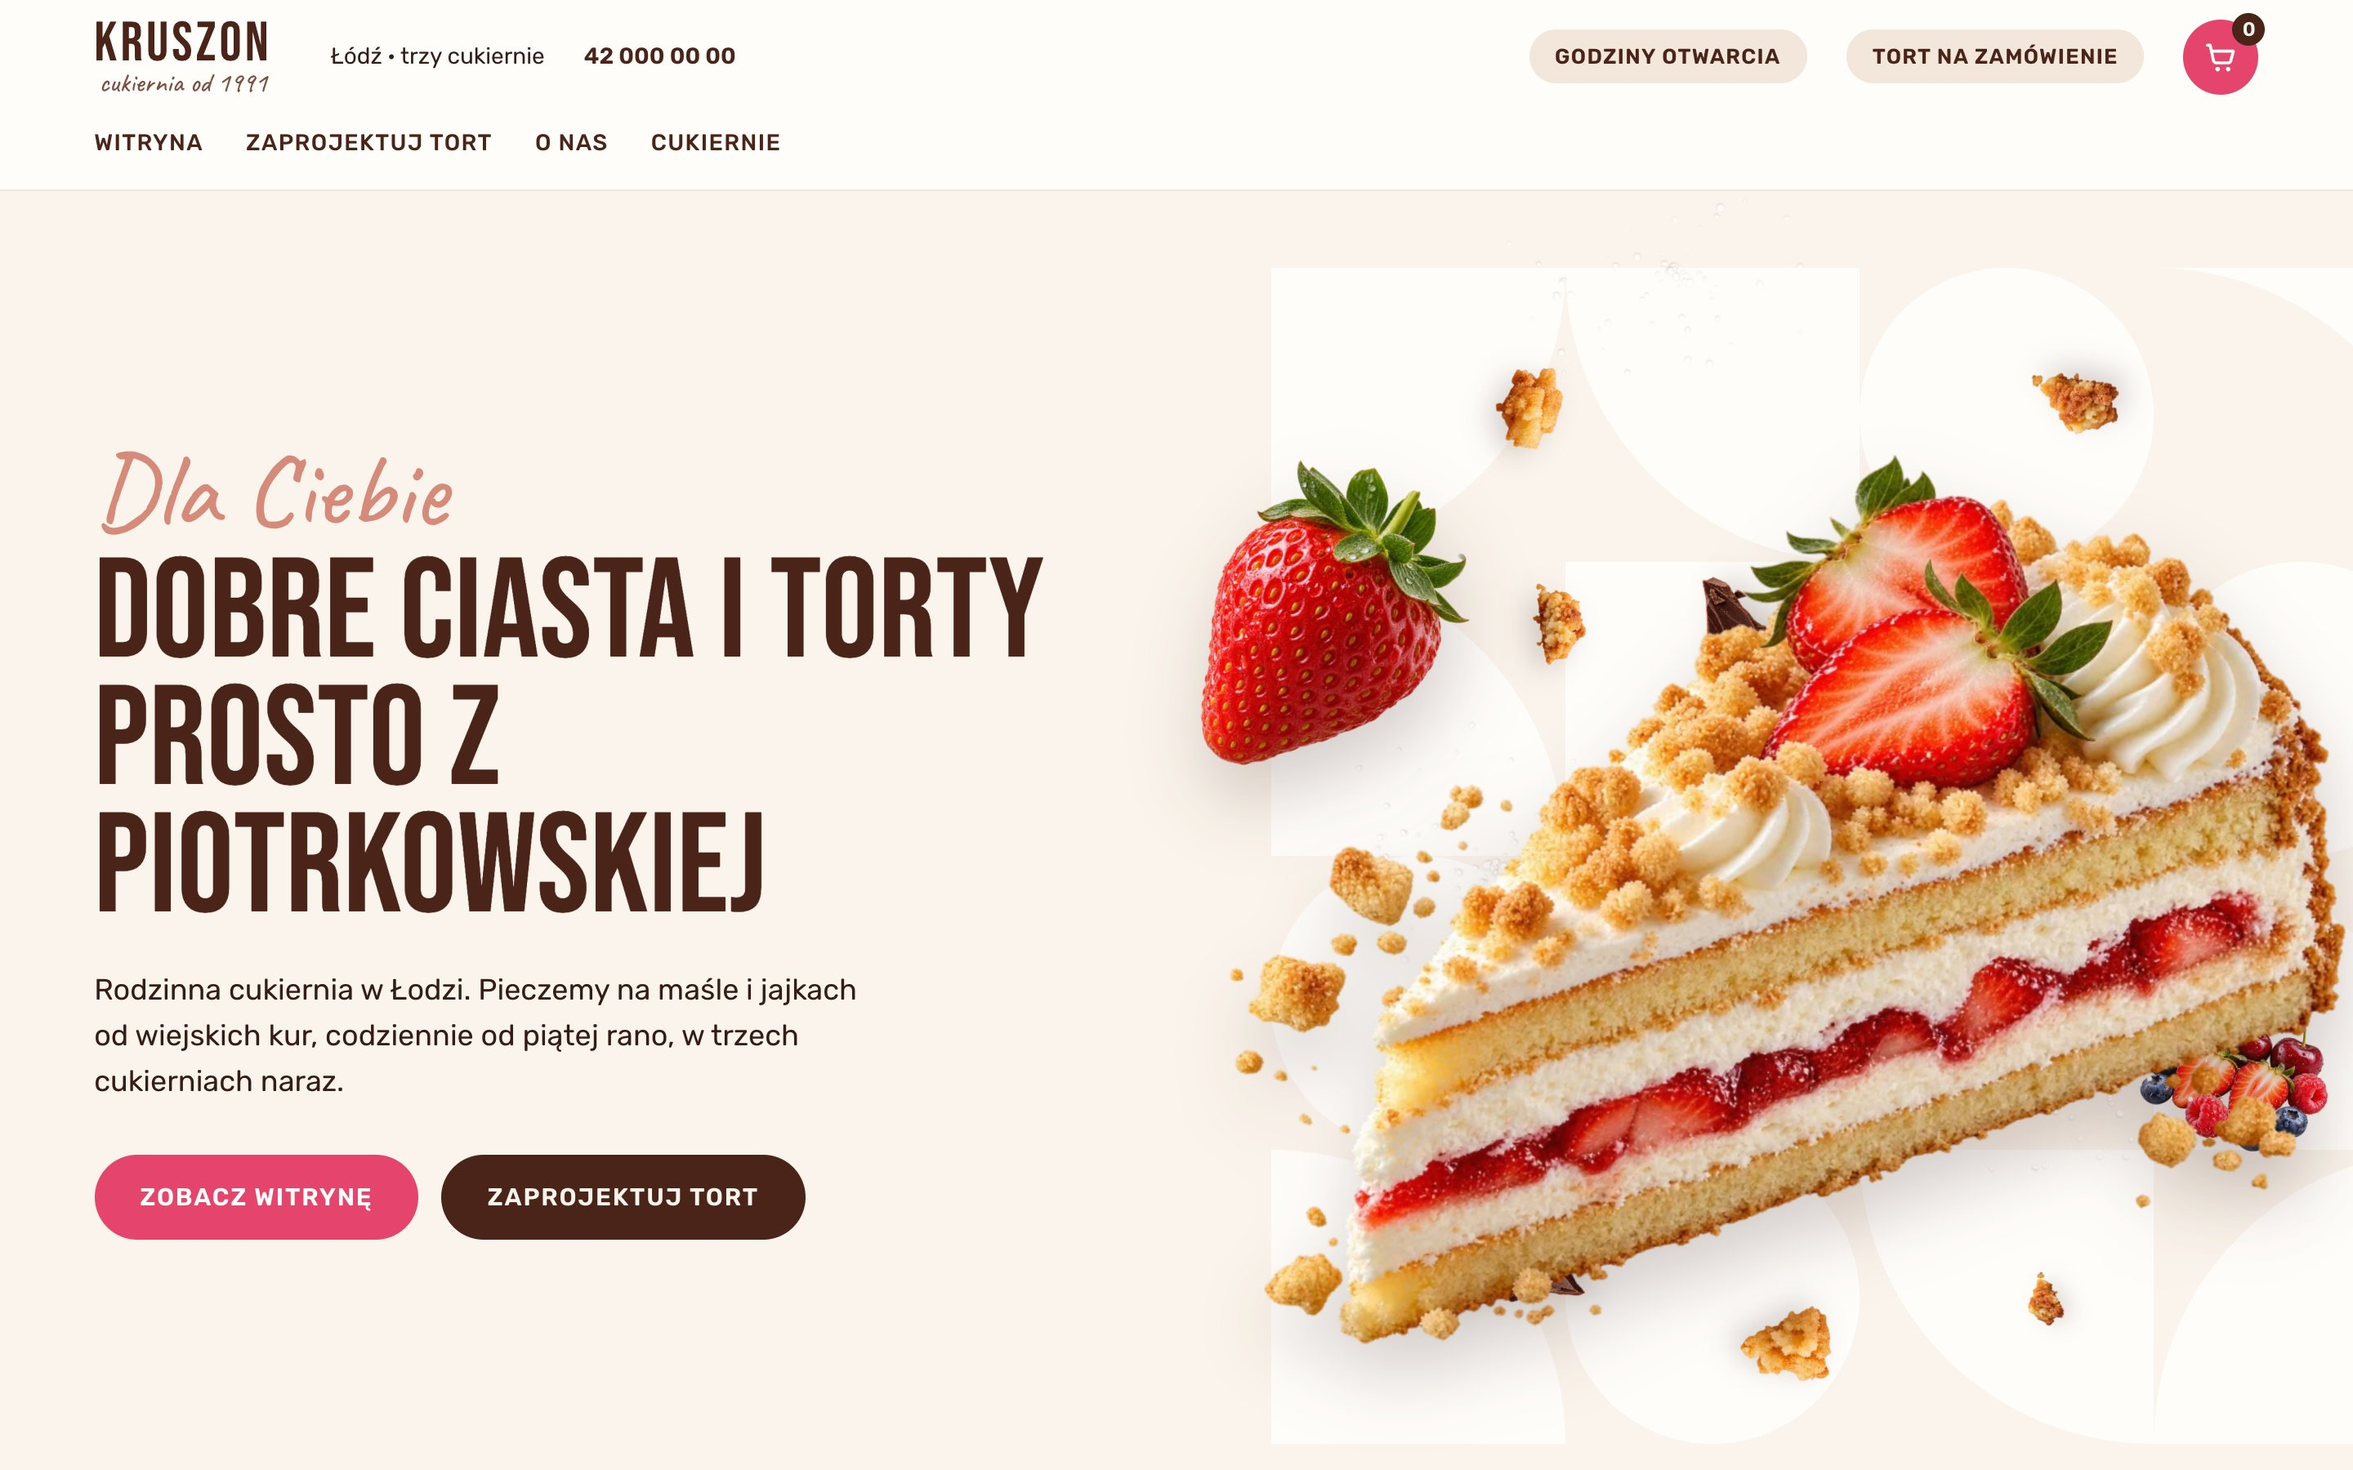
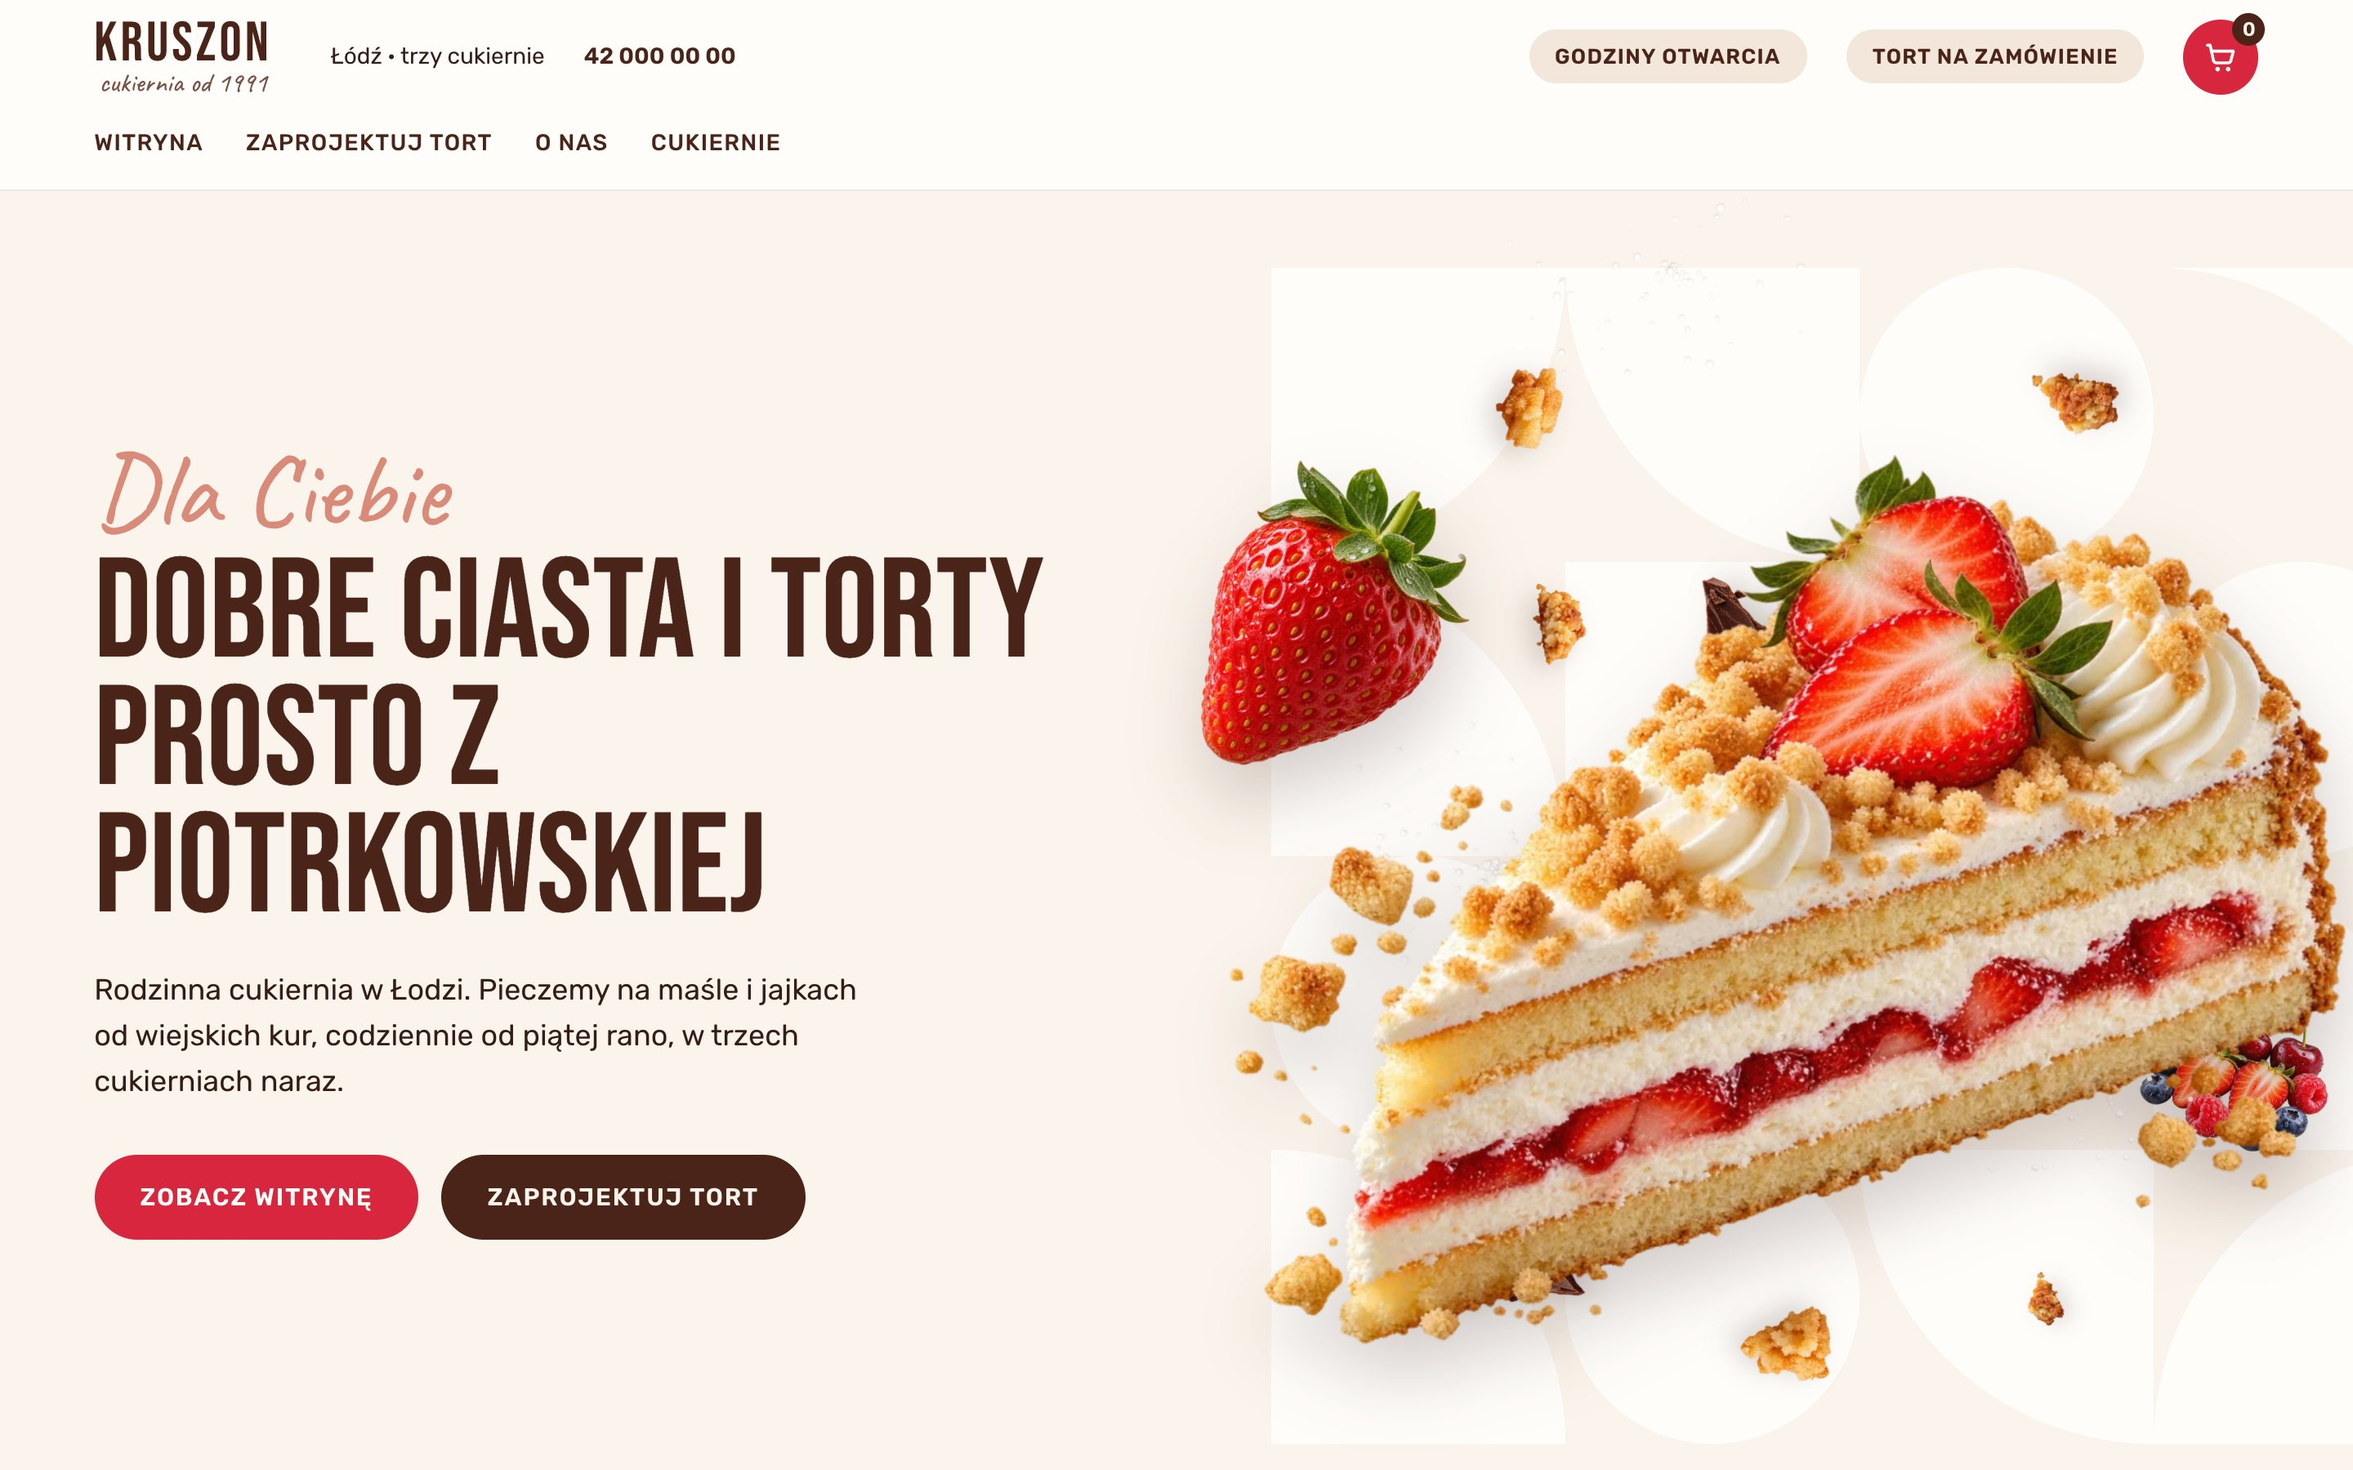
Kruszon: akcent w kolorze dojrzałej truskawki (#d7263d) zamiast malinowego różu

Changed region(s): [[0.0312, 0.7778, 0.1875, 0.8711], [0.9062, 0.0, 0.9688, 0.0622]]

diff --git a/design/concepts/kruszon-tort.html b/design/concepts/kruszon-tort.html
@@ -10,7 +10,7 @@
 <link rel="preconnect" href="https://fonts.gstatic.com" crossorigin>
 <link href="https://fonts.googleapis.com/css2?family=Bebas+Neue&family=Caveat:wght@500;600&family=Rubik:wght@400;500;600&display=swap" rel="stylesheet">
 <script>(function(){var m=location.search.match(/[?&]pal=(\w+)/);if(m)document.documentElement.dataset.pal=m[1];document.documentElement.classList.add("js")})()</script>
-<link rel="stylesheet" href="assets/kruszon/site.css?v=5">
+<link rel="stylesheet" href="assets/kruszon/site.css?v=6">
 <style>
   .phead h1 { max-width:12ch; }
   .studio { display:grid; grid-template-columns:minmax(0, 1.25fr) minmax(0, .75fr); gap:clamp(28px, 4vw, 64px); align-items:start; padding-bottom:clamp(90px, 10vw, 140px); }
@@ -272,7 +272,7 @@
   </div>
 </footer>
 <script src="assets/concept.js"></script>
-<script src="assets/kruszon/site.js?v=5"></script>
+<script src="assets/kruszon/site.js?v=6"></script>
 <script>
 (function () {
   var NS = "http://www.w3.org/2000/svg", f = document.querySelector("[data-builder]"), cake = document.querySelector("[data-cake]"), sec = document.querySelector("[data-section]");

diff --git a/public/demo/concepts/kruszon-tort.html b/public/demo/concepts/kruszon-tort.html
@@ -10,7 +10,7 @@
 <link rel="preconnect" href="https://fonts.gstatic.com" crossorigin>
 <link href="https://fonts.googleapis.com/css2?family=Bebas+Neue&family=Caveat:wght@500;600&family=Rubik:wght@400;500;600&display=swap" rel="stylesheet">
 <script>(function(){var m=location.search.match(/[?&]pal=(\w+)/);if(m)document.documentElement.dataset.pal=m[1];document.documentElement.classList.add("js")})()</script>
-<link rel="stylesheet" href="assets/kruszon/site.css?v=5">
+<link rel="stylesheet" href="assets/kruszon/site.css?v=6">
 <style>
   .phead h1 { max-width:12ch; }
   .studio { display:grid; grid-template-columns:minmax(0, 1.25fr) minmax(0, .75fr); gap:clamp(28px, 4vw, 64px); align-items:start; padding-bottom:clamp(90px, 10vw, 140px); }
@@ -272,7 +272,7 @@
   </div>
 </footer>
 <script src="assets/concept.js"></script>
-<script src="assets/kruszon/site.js?v=5"></script>
+<script src="assets/kruszon/site.js?v=6"></script>
 <script>
 (function () {
   var NS = "http://www.w3.org/2000/svg", f = document.querySelector("[data-builder]"), cake = document.querySelector("[data-cake]"), sec = document.querySelector("[data-section]");

diff --git a/design/concepts/kruszon-cukiernie.html b/design/concepts/kruszon-cukiernie.html
@@ -10,7 +10,7 @@
 <link rel="preconnect" href="https://fonts.gstatic.com" crossorigin>
 <link href="https://fonts.googleapis.com/css2?family=Bebas+Neue&family=Caveat:wght@500;600&family=Rubik:wght@400;500;600&display=swap" rel="stylesheet">
 <script>(function(){var m=location.search.match(/[?&]pal=(\w+)/);if(m)document.documentElement.dataset.pal=m[1];document.documentElement.classList.add("js")})()</script>
-<link rel="stylesheet" href="assets/kruszon/site.css?v=5">
+<link rel="stylesheet" href="assets/kruszon/site.css?v=6">
 <style>
   .where { display:grid; grid-template-columns:1.05fr .95fr; gap:clamp(28px, 4vw, 56px); align-items:start; padding-bottom:clamp(90px, 10vw, 140px); }
   .map { position:sticky; top:122px; background:var(--card); border-radius:28px; padding:16px; }
@@ -162,7 +162,7 @@
   </div>
 </footer>
 <script src="assets/concept.js"></script>
-<script src="assets/kruszon/site.js?v=5"></script>
+<script src="assets/kruszon/site.js?v=6"></script>
 <script>
 (function () {
   var shops = document.querySelectorAll(".shop[data-i]"), pins = document.querySelectorAll("[data-pin]");

diff --git a/public/demo/concepts/kruszon-cukiernie.html b/public/demo/concepts/kruszon-cukiernie.html
@@ -10,7 +10,7 @@
 <link rel="preconnect" href="https://fonts.gstatic.com" crossorigin>
 <link href="https://fonts.googleapis.com/css2?family=Bebas+Neue&family=Caveat:wght@500;600&family=Rubik:wght@400;500;600&display=swap" rel="stylesheet">
 <script>(function(){var m=location.search.match(/[?&]pal=(\w+)/);if(m)document.documentElement.dataset.pal=m[1];document.documentElement.classList.add("js")})()</script>
-<link rel="stylesheet" href="assets/kruszon/site.css?v=5">
+<link rel="stylesheet" href="assets/kruszon/site.css?v=6">
 <style>
   .where { display:grid; grid-template-columns:1.05fr .95fr; gap:clamp(28px, 4vw, 56px); align-items:start; padding-bottom:clamp(90px, 10vw, 140px); }
   .map { position:sticky; top:122px; background:var(--card); border-radius:28px; padding:16px; }
@@ -162,7 +162,7 @@
   </div>
 </footer>
 <script src="assets/concept.js"></script>
-<script src="assets/kruszon/site.js?v=5"></script>
+<script src="assets/kruszon/site.js?v=6"></script>
 <script>
 (function () {
   var shops = document.querySelectorAll(".shop[data-i]"), pins = document.querySelectorAll("[data-pin]");

diff --git a/design/concepts/assets/kruszon/site.css b/design/concepts/assets/kruszon/site.css
@@ -3,10 +3,10 @@
   --display:"Bebas Neue", "Oswald", Impact, sans-serif; --script:"Caveat", "Segoe Script", cursive; --text:"Rubik", system-ui, sans-serif;
   --ease-out:cubic-bezier(.22,1,.36,1); --m:clamp(16px, 4vw, 64px); --r:22px;
 }
-/* Malina: kakao i malinowy róż na waniliowym tle (domyślna) */
+/* Malina (domyślna): kakao i czerwień dojrzałej truskawki na waniliowym tle */
 :root, html[data-pal="malina"] {
-  --bg:#fbf4ec; --bg-2:#f3e6da; --card:#fffdfa; --accent:#e5446d; --accent-2:#c92f58; --accent-ink:#fffdfa;
-  --ink:#341c17; --head:#4a2419; --soft:#7b5146; --script-c:#d58a7a; --big:#e5446d; --pattern:#fffdfa; --crumb-a:#c4895d; --crumb-b:#e0b48a;
+  --bg:#fbf4ec; --bg-2:#f3e6da; --card:#fffdfa; --accent:#d7263d; --accent-2:#b81c31; --accent-ink:#fffdfa;
+  --ink:#341c17; --head:#4a2419; --soft:#7b5146; --script-c:#d98a78; --big:#d7263d; --pattern:#fffdfa; --crumb-a:#c4895d; --crumb-b:#e0b48a;
 }
 /* Pistacja: zieleń pistacji i gorzka czekolada */
 html[data-pal="pistacja"] {

diff --git a/public/demo/concepts/assets/kruszon/site.css b/public/demo/concepts/assets/kruszon/site.css
@@ -3,10 +3,10 @@
   --display:"Bebas Neue", "Oswald", Impact, sans-serif; --script:"Caveat", "Segoe Script", cursive; --text:"Rubik", system-ui, sans-serif;
   --ease-out:cubic-bezier(.22,1,.36,1); --m:clamp(16px, 4vw, 64px); --r:22px;
 }
-/* Malina: kakao i malinowy róż na waniliowym tle (domyślna) */
+/* Malina (domyślna): kakao i czerwień dojrzałej truskawki na waniliowym tle */
 :root, html[data-pal="malina"] {
-  --bg:#fbf4ec; --bg-2:#f3e6da; --card:#fffdfa; --accent:#e5446d; --accent-2:#c92f58; --accent-ink:#fffdfa;
-  --ink:#341c17; --head:#4a2419; --soft:#7b5146; --script-c:#d58a7a; --big:#e5446d; --pattern:#fffdfa; --crumb-a:#c4895d; --crumb-b:#e0b48a;
+  --bg:#fbf4ec; --bg-2:#f3e6da; --card:#fffdfa; --accent:#d7263d; --accent-2:#b81c31; --accent-ink:#fffdfa;
+  --ink:#341c17; --head:#4a2419; --soft:#7b5146; --script-c:#d98a78; --big:#d7263d; --pattern:#fffdfa; --crumb-a:#c4895d; --crumb-b:#e0b48a;
 }
 /* Pistacja: zieleń pistacji i gorzka czekolada */
 html[data-pal="pistacja"] {

diff --git a/design/concepts/kruszon.html b/design/concepts/kruszon.html
@@ -10,7 +10,7 @@
 <link rel="preconnect" href="https://fonts.gstatic.com" crossorigin>
 <link href="https://fonts.googleapis.com/css2?family=Bebas+Neue&family=Caveat:wght@500;600&family=Rubik:wght@400;500;600&display=swap" rel="stylesheet">
 <script>(function(){var m=location.search.match(/[?&]pal=(\w+)/);if(m)document.documentElement.dataset.pal=m[1];document.documentElement.classList.add("js")})()</script>
-<link rel="stylesheet" href="assets/kruszon/site.css?v=5">
+<link rel="stylesheet" href="assets/kruszon/site.css?v=6">
 <style>
   .hero { position:relative; min-height:calc(100svh - 104px); display:grid; grid-template-columns:1fr 1fr; align-items:center; overflow:hidden; }
   .hero .pattern { position:absolute; right:-4vw; top:6%; width:min(50vw, 740px); z-index:0; }
@@ -261,7 +261,7 @@
   </div>
 </footer>
 <script src="assets/concept.js"></script>
-<script src="assets/kruszon/site.js?v=5"></script>
+<script src="assets/kruszon/site.js?v=6"></script>
 
 </body>
 </html>

diff --git a/public/demo/concepts/kruszon.html b/public/demo/concepts/kruszon.html
@@ -10,7 +10,7 @@
 <link rel="preconnect" href="https://fonts.gstatic.com" crossorigin>
 <link href="https://fonts.googleapis.com/css2?family=Bebas+Neue&family=Caveat:wght@500;600&family=Rubik:wght@400;500;600&display=swap" rel="stylesheet">
 <script>(function(){var m=location.search.match(/[?&]pal=(\w+)/);if(m)document.documentElement.dataset.pal=m[1];document.documentElement.classList.add("js")})()</script>
-<link rel="stylesheet" href="assets/kruszon/site.css?v=5">
+<link rel="stylesheet" href="assets/kruszon/site.css?v=6">
 <style>
   .hero { position:relative; min-height:calc(100svh - 104px); display:grid; grid-template-columns:1fr 1fr; align-items:center; overflow:hidden; }
   .hero .pattern { position:absolute; right:-4vw; top:6%; width:min(50vw, 740px); z-index:0; }
@@ -261,7 +261,7 @@
   </div>
 </footer>
 <script src="assets/concept.js"></script>
-<script src="assets/kruszon/site.js?v=5"></script>
+<script src="assets/kruszon/site.js?v=6"></script>
 
 </body>
 </html>

diff --git a/design/concepts/kruszon-o-nas.html b/design/concepts/kruszon-o-nas.html
@@ -10,7 +10,7 @@
 <link rel="preconnect" href="https://fonts.gstatic.com" crossorigin>
 <link href="https://fonts.googleapis.com/css2?family=Bebas+Neue&family=Caveat:wght@500;600&family=Rubik:wght@400;500;600&display=swap" rel="stylesheet">
 <script>(function(){var m=location.search.match(/[?&]pal=(\w+)/);if(m)document.documentElement.dataset.pal=m[1];document.documentElement.classList.add("js")})()</script>
-<link rel="stylesheet" href="assets/kruszon/site.css?v=5">
+<link rel="stylesheet" href="assets/kruszon/site.css?v=6">
 <style>
   .phead .side { position:absolute; right:var(--m); top:52%; translate:0 -50%; width:min(28vw, 400px); }
   .phead .lead, .phead h1, .phead .script { max-width:60%; }
@@ -159,7 +159,7 @@
   </div>
 </footer>
 <script src="assets/concept.js"></script>
-<script src="assets/kruszon/site.js?v=5"></script>
+<script src="assets/kruszon/site.js?v=6"></script>
 <script>
 (function () {
   // podświetl etap dnia, który trwa teraz

diff --git a/public/demo/concepts/kruszon-o-nas.html b/public/demo/concepts/kruszon-o-nas.html
@@ -10,7 +10,7 @@
 <link rel="preconnect" href="https://fonts.gstatic.com" crossorigin>
 <link href="https://fonts.googleapis.com/css2?family=Bebas+Neue&family=Caveat:wght@500;600&family=Rubik:wght@400;500;600&display=swap" rel="stylesheet">
 <script>(function(){var m=location.search.match(/[?&]pal=(\w+)/);if(m)document.documentElement.dataset.pal=m[1];document.documentElement.classList.add("js")})()</script>
-<link rel="stylesheet" href="assets/kruszon/site.css?v=5">
+<link rel="stylesheet" href="assets/kruszon/site.css?v=6">
 <style>
   .phead .side { position:absolute; right:var(--m); top:52%; translate:0 -50%; width:min(28vw, 400px); }
   .phead .lead, .phead h1, .phead .script { max-width:60%; }
@@ -159,7 +159,7 @@
   </div>
 </footer>
 <script src="assets/concept.js"></script>
-<script src="assets/kruszon/site.js?v=5"></script>
+<script src="assets/kruszon/site.js?v=6"></script>
 <script>
 (function () {
   // podświetl etap dnia, który trwa teraz

diff --git a/design/concepts/kruszon-katalog.html b/design/concepts/kruszon-katalog.html
@@ -10,7 +10,7 @@
 <link rel="preconnect" href="https://fonts.gstatic.com" crossorigin>
 <link href="https://fonts.googleapis.com/css2?family=Bebas+Neue&family=Caveat:wght@500;600&family=Rubik:wght@400;500;600&display=swap" rel="stylesheet">
 <script>(function(){var m=location.search.match(/[?&]pal=(\w+)/);if(m)document.documentElement.dataset.pal=m[1];document.documentElement.classList.add("js")})()</script>
-<link rel="stylesheet" href="assets/kruszon/site.css?v=5">
+<link rel="stylesheet" href="assets/kruszon/site.css?v=6">
 <style>
   .phead .side { position:absolute; right:var(--m); top:50%; translate:0 -50%; width:min(30vw, 420px); }
   .phead .lead, .phead h1, .phead .script { max-width:60%; }
@@ -116,7 +116,7 @@
   </div>
 </footer>
 <script src="assets/concept.js"></script>
-<script src="assets/kruszon/site.js?v=5"></script>
+<script src="assets/kruszon/site.js?v=6"></script>
 
 </body>
 </html>

diff --git a/public/demo/concepts/kruszon-katalog.html b/public/demo/concepts/kruszon-katalog.html
@@ -10,7 +10,7 @@
 <link rel="preconnect" href="https://fonts.gstatic.com" crossorigin>
 <link href="https://fonts.googleapis.com/css2?family=Bebas+Neue&family=Caveat:wght@500;600&family=Rubik:wght@400;500;600&display=swap" rel="stylesheet">
 <script>(function(){var m=location.search.match(/[?&]pal=(\w+)/);if(m)document.documentElement.dataset.pal=m[1];document.documentElement.classList.add("js")})()</script>
-<link rel="stylesheet" href="assets/kruszon/site.css?v=5">
+<link rel="stylesheet" href="assets/kruszon/site.css?v=6">
 <style>
   .phead .side { position:absolute; right:var(--m); top:50%; translate:0 -50%; width:min(30vw, 420px); }
   .phead .lead, .phead h1, .phead .script { max-width:60%; }
@@ -116,7 +116,7 @@
   </div>
 </footer>
 <script src="assets/concept.js"></script>
-<script src="assets/kruszon/site.js?v=5"></script>
+<script src="assets/kruszon/site.js?v=6"></script>
 
 </body>
 </html>
